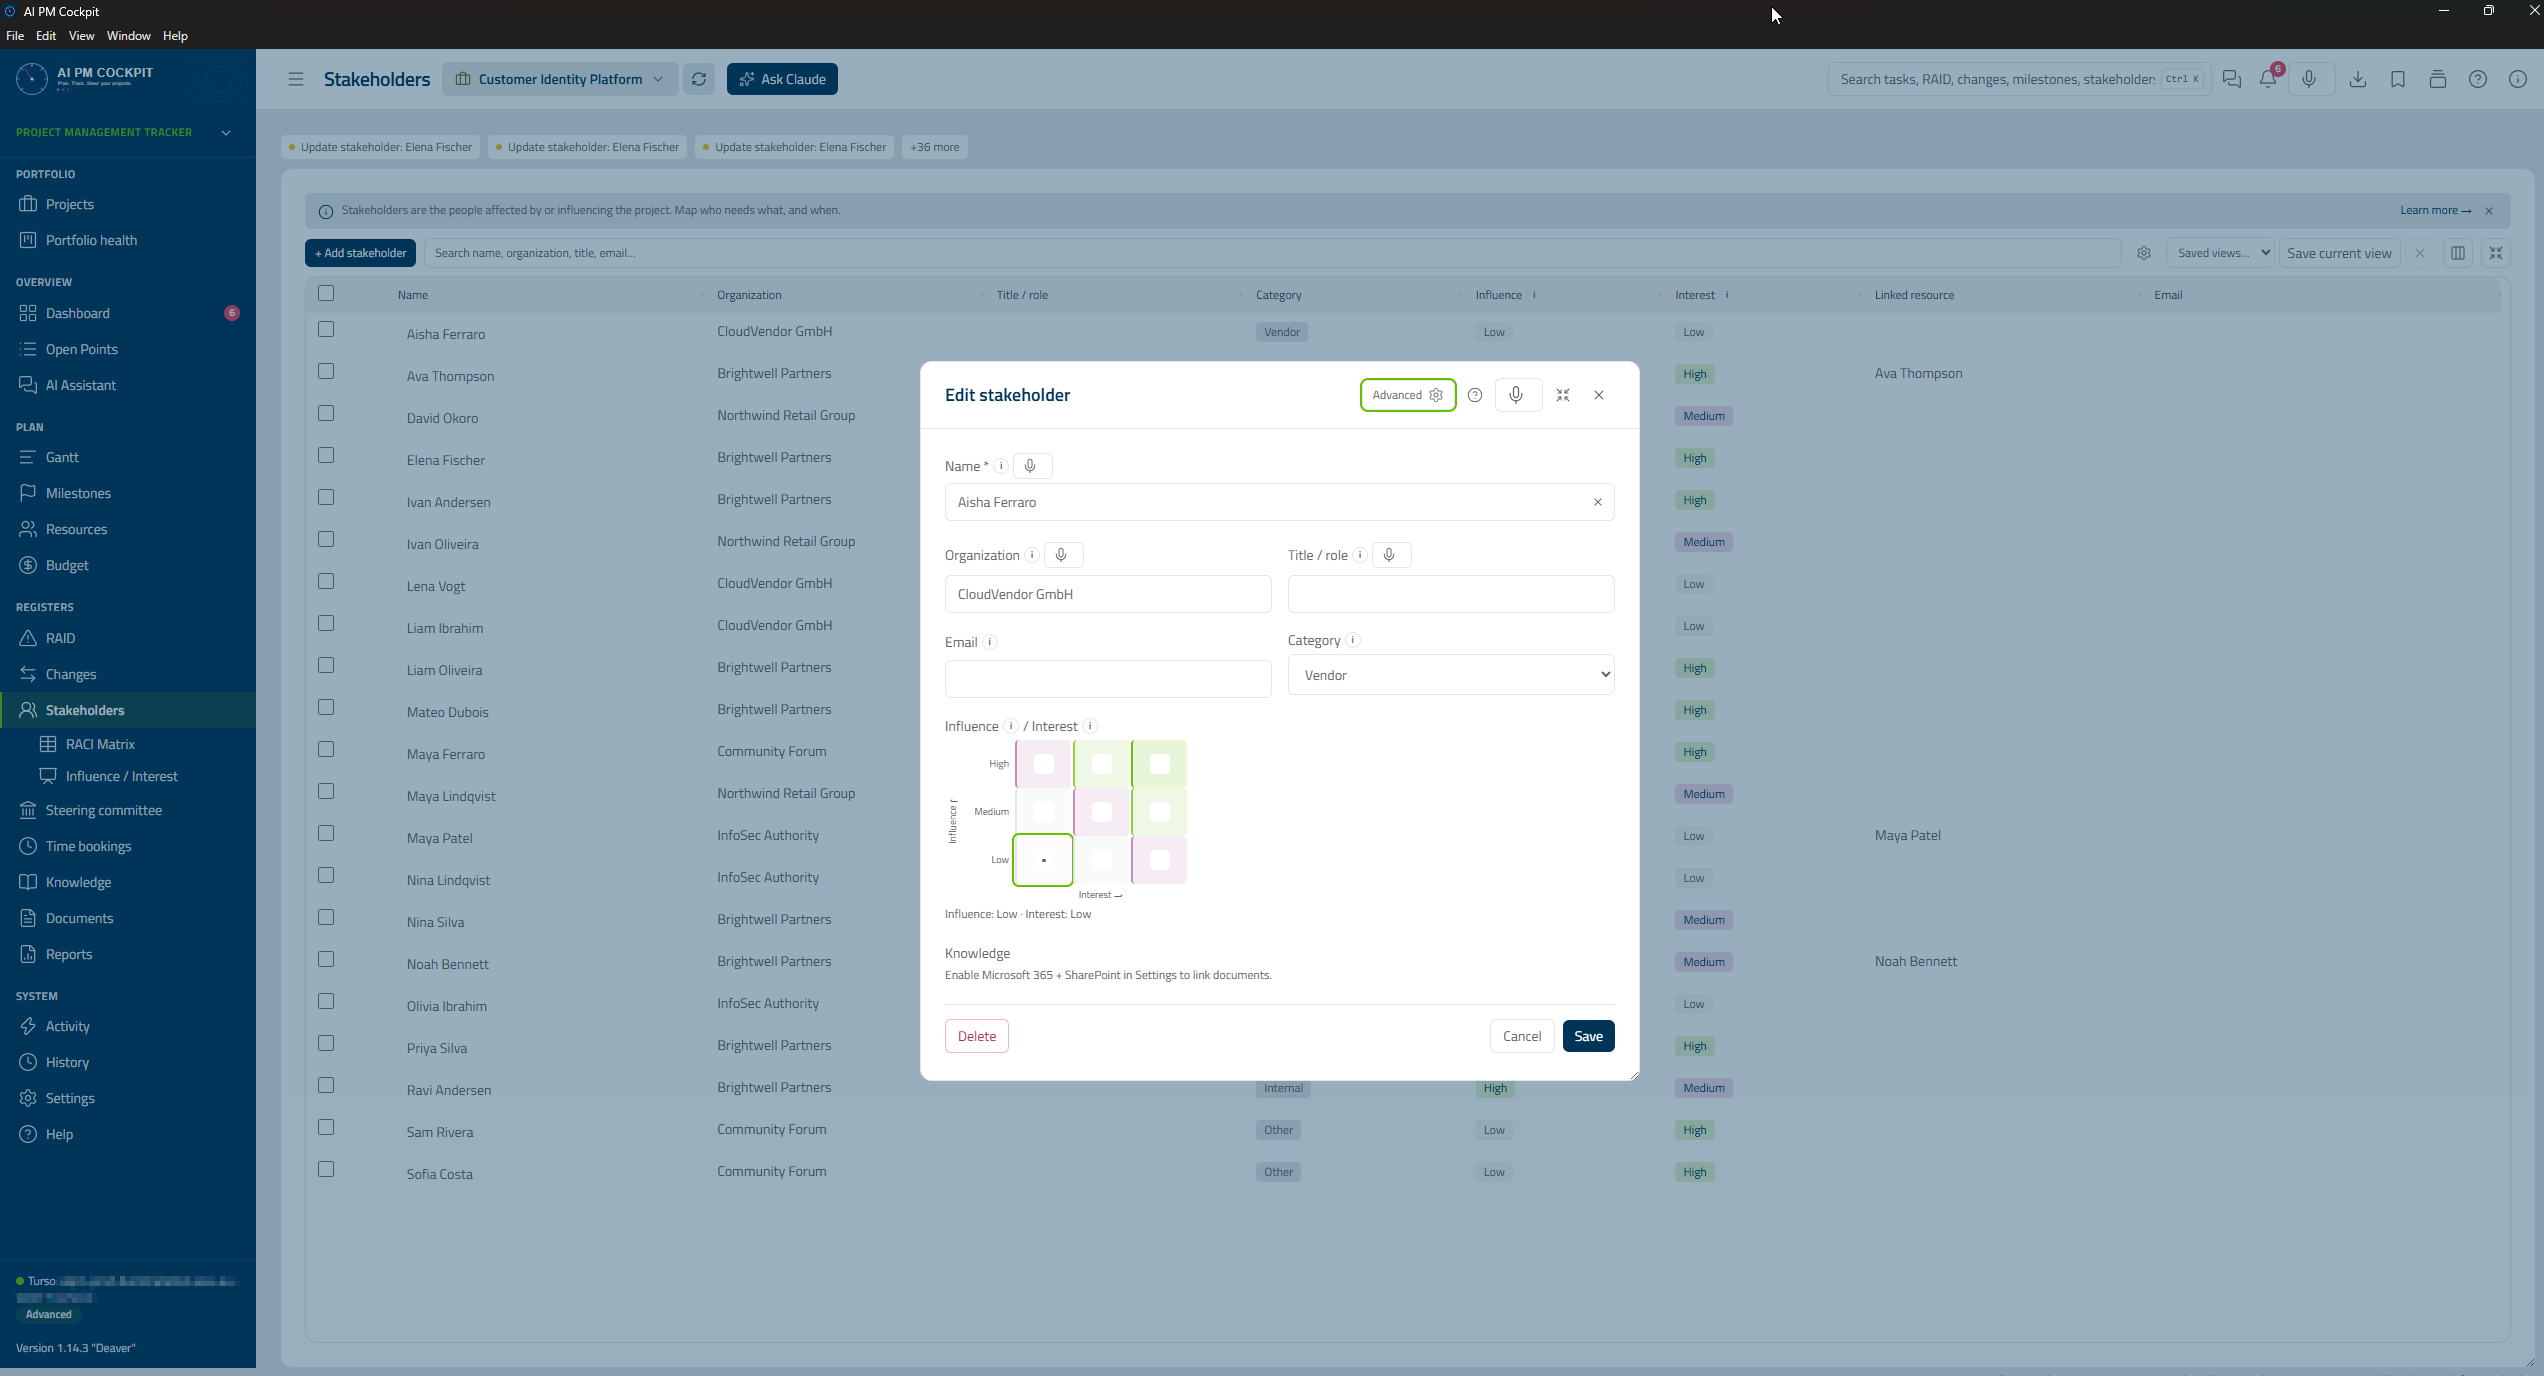
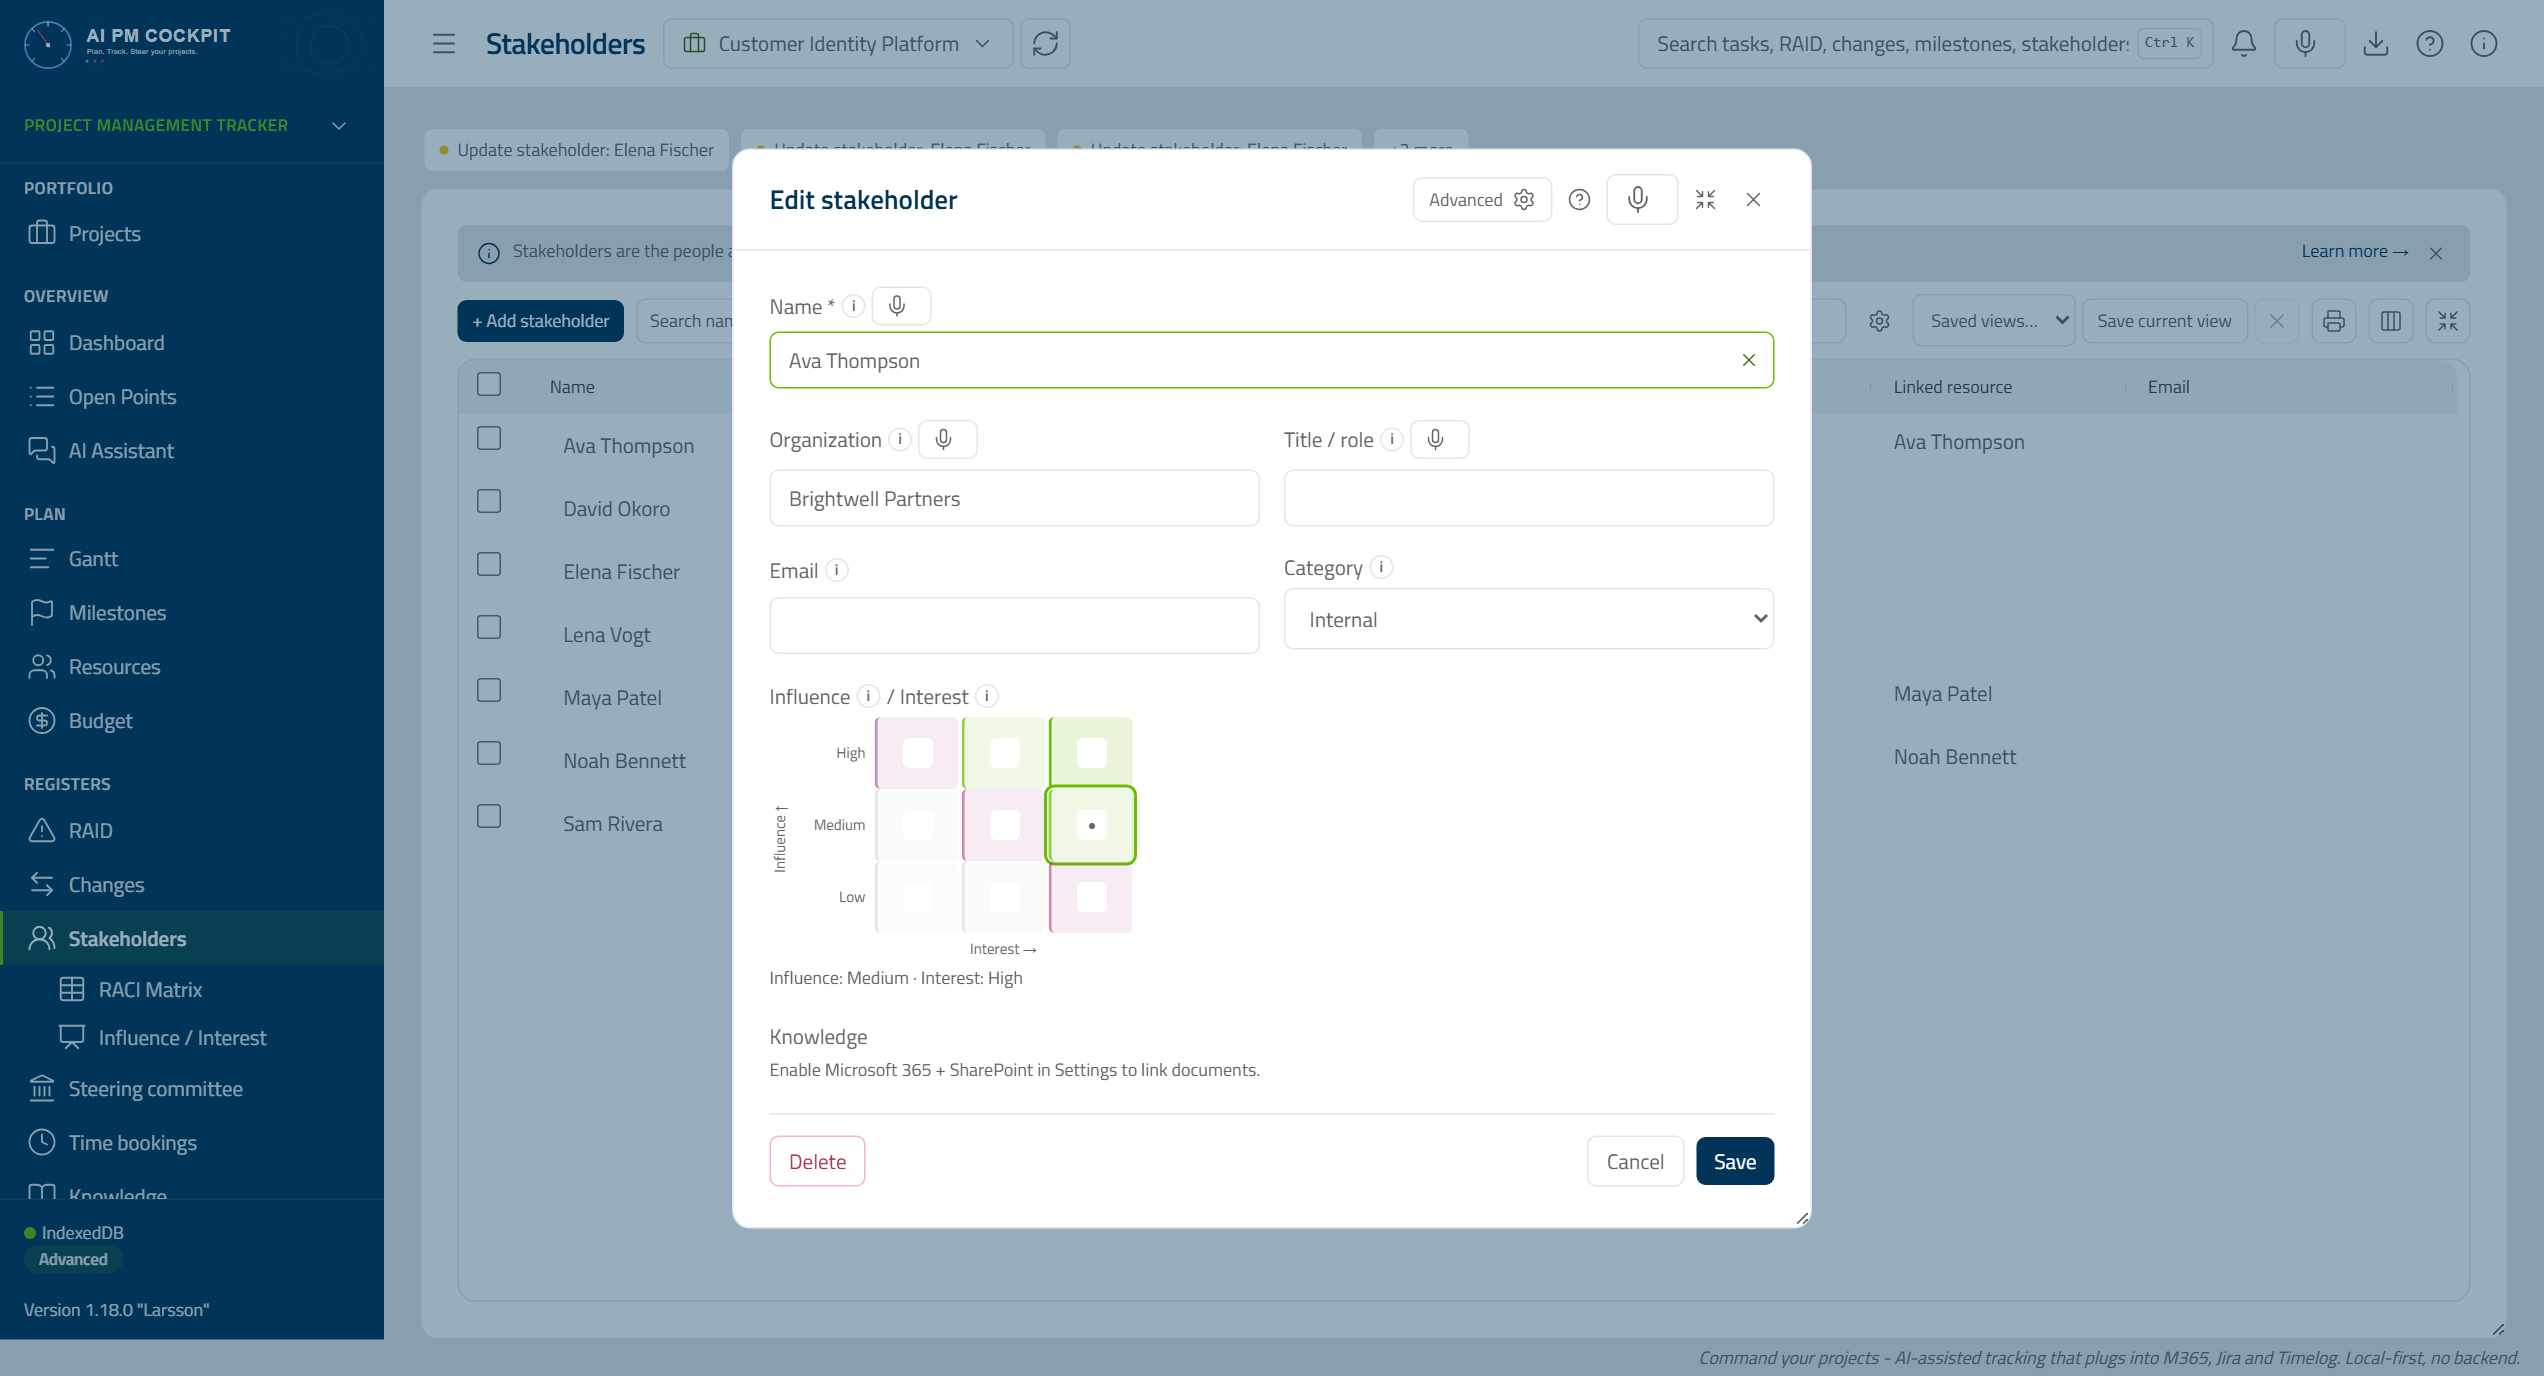
docs: regenerate the README gallery from the guide-shots spec (§713)
Sixteen of the seventeen gallery pictures; version-history.png stays
hand-captured, since its view needs Turso storage.

Taken at 1696x917 and 1.5x, which keeps the existing 2544x1376 pixels
at a density a reader can still read (the old captures were a desktop
window about 2544 px wide at 1x). The Next dev badge is hidden and the
browser language pinned, so native date fields read in en-US.

diff --git a/e2e/guide-shots.spec.ts b/e2e/guide-shots.spec.ts
@@ -274,5 +274,144 @@ test.describe("guide", () => {
   });
 });
 
-// Used by the gallery block.
-void GALLERY_DIR;
+/** Scroll an element to the top of its pane. */
+async function scrollToTop(target: Locator): Promise<void> {
+  await target.evaluate((el) => el.scrollIntoView({ block: "start" }));
+}
+
+/** Full-window gallery shot: the Next dev-mode badge hidden, the view settled. */
+async function galleryShot(page: Page, name: string): Promise<void> {
+  await blurActive(page);
+  await page.addStyleTag({ content: "nextjs-portal { display: none !important; }" });
+  await waitForViewSettled(page);
+  await page.screenshot({ path: `${GALLERY_DIR}/${name}.png`, animations: "disabled", caret: "hide" });
+}
+
+// The README gallery: 16 of its 17 pictures (version-history.png shows a Turso-only view).
+// ★ 1696×917 at 1.5× is the existing images' 2544×1376 pixels at a density a reader can still read.
+test.describe("gallery", () => {
+  test.use({ viewport: { width: 1696, height: 917 }, deviceScaleFactor: 1.5 });
+
+  test.beforeEach(async ({ page }) => {
+    await prepare(page);
+    await gotoApp(page, FROZEN_NOW);
+  });
+
+  test("dashboard", async ({ page }) => {
+    await expect(page.getByText("Overall:", { exact: false }).first()).toBeVisible();
+    await galleryShot(page, "dashboard");
+  });
+
+  test("open-points", async ({ page }) => {
+    await openView(page, "Open Points");
+    await expect(page.locator("main").getByRole("table").first()).toBeVisible();
+    await galleryShot(page, "open-points");
+  });
+
+  test("swimlanes", async ({ page }) => {
+    await openView(page, "Open Points");
+    await page.locator("main").getByText("Swimlanes", { exact: true }).click();
+    // The lane picker exists only in the swimlane layout.
+    await expect(page.getByRole("combobox").filter({ hasText: "Add person lane" })).toBeVisible();
+    await galleryShot(page, "swimlanes");
+  });
+
+  test("gantt", async ({ page }) => {
+    await openView(page, "Gantt");
+    // Past the finished tasks, to the rows with live bars, milestones and dependency arrows.
+    await scrollToTop(page.locator("main").getByText("Backend API skeleton", { exact: true }).first());
+    await page.locator("main").getByRole("button", { name: "View", exact: true }).click();
+    await expect(page.getByText("Show or hide chart layers", { exact: false }).first()).toBeVisible();
+    await galleryShot(page, "gantt");
+  });
+
+  test("raid", async ({ page }) => {
+    await openView(page, "RAID");
+    await page.locator("main tbody tr").first().click();
+    await expect(page.getByRole("dialog").first()).toBeVisible();
+    await galleryShot(page, "raid");
+  });
+
+  test("budget", async ({ page }) => {
+    await openView(page, "Budget");
+    await expect(page.locator("main").getByRole("table").first()).toBeVisible();
+    await galleryShot(page, "budget");
+  });
+
+  test("budget-report-efficiency", async ({ page }) => {
+    await openView(page, "Reports");
+    await openView(page, "Budget Report");
+    await page.locator("main").getByText("At current efficiency", { exact: true }).first().click();
+    await expect(page.getByText("EAC at current efficiency", { exact: false }).first()).toBeVisible();
+    await scrollToTop(page.locator("main").getByText("Forecast", { exact: true }).first());
+    await galleryShot(page, "budget-report-efficiency");
+  });
+
+  test("budget-report-pace", async ({ page }) => {
+    await openView(page, "Reports");
+    await openView(page, "Budget Report");
+    // At current pace is the default forecast.
+    await expect(page.getByText("EAC at current pace", { exact: false }).first()).toBeVisible();
+    await scrollToTop(page.locator("main").getByText("Forecast", { exact: true }).first());
+    await galleryShot(page, "budget-report-pace");
+  });
+
+  test("changes", async ({ page }) => {
+    await openView(page, "Changes");
+    // A change row opens its editor on click; the title is the fourth cell.
+    await page.locator("main tbody tr:visible").first().locator("td").nth(3).click();
+    // The editor's own Notes log button: the row behind the dialog carries one too.
+    await page.getByRole("dialog").getByRole("button", { name: /Notes log/ }).first().click();
+    await expect(page.getByText(/^Notes log — /).first()).toBeVisible();
+    await galleryShot(page, "changes");
+  });
+
+  test("stakeholders", async ({ page }) => {
+    await openView(page, "Stakeholders");
+    // The name cell is the edit button: it carries the stakeholder's name as `title`.
+    await page.locator("main tbody tr:visible").first().locator("td button[title]").first().click();
+    await expect(page.getByRole("dialog").first()).toBeVisible();
+    await galleryShot(page, "stakeholders");
+  });
+
+  test("raci", async ({ page }) => {
+    await openView(page, "Stakeholders");
+    await openView(page, "RACI Matrix");
+    await expect(page.locator("main").getByRole("table").first()).toBeVisible();
+    await galleryShot(page, "raci");
+  });
+
+  test("knowledge", async ({ page }) => {
+    await openView(page, "Knowledge");
+    await expect(page.locator("main").getByRole("link").first()).toBeVisible();
+    await galleryShot(page, "knowledge");
+  });
+
+  test("operating-guides", async ({ page }) => {
+    await openSettingsSection(page, "AI Assistant");
+    // The guides list shows only while the assistant is on.
+    await enableIntegration(page, page.getByRole("checkbox", { name: "Enable AI assistant", exact: true }));
+    await page.locator("main").getByRole("button", { name: "Operating guides", exact: true }).click();
+    await expect(page.getByText("Operating guides", { exact: true }).nth(1)).toBeVisible();
+    await galleryShot(page, "operating-guides");
+  });
+
+  test("information-flows", async ({ page }) => {
+    await openSettingsSection(page, "Information flows");
+    await expect(page.locator("main svg").first()).toBeVisible();
+    await galleryShot(page, "information-flows");
+  });
+
+  test("new-project", async ({ page }) => {
+    await openView(page, "Projects");
+    await page.locator("main").getByRole("button", { name: /New project/ }).first().click();
+    await expect(page.getByRole("dialog").first()).toBeVisible();
+    await galleryShot(page, "new-project");
+  });
+
+  test("help", async ({ page }) => {
+    await openView(page, "Help");
+    await expect(page.locator("main").getByText("Concepts", { exact: false }).first()).toBeVisible();
+    await galleryShot(page, "help");
+  });
+});

diff --git a/playwright.config.ts b/playwright.config.ts
@@ -156,6 +156,8 @@ export default defineConfig({
         reducedMotion: "reduce",
         viewport: { width: 1280, height: 800 },
         deviceScaleFactor: 2,
+        // Native date inputs format by the BROWSER's language, not the page locale: pin it too.
+        launchOptions: { args: ["--lang=en-US"] },
       },
     },
     {
